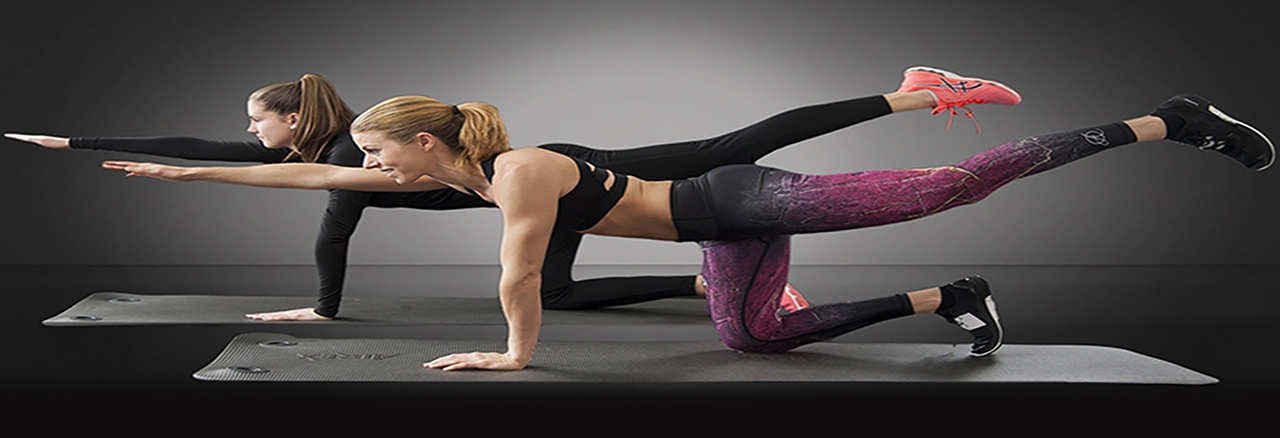
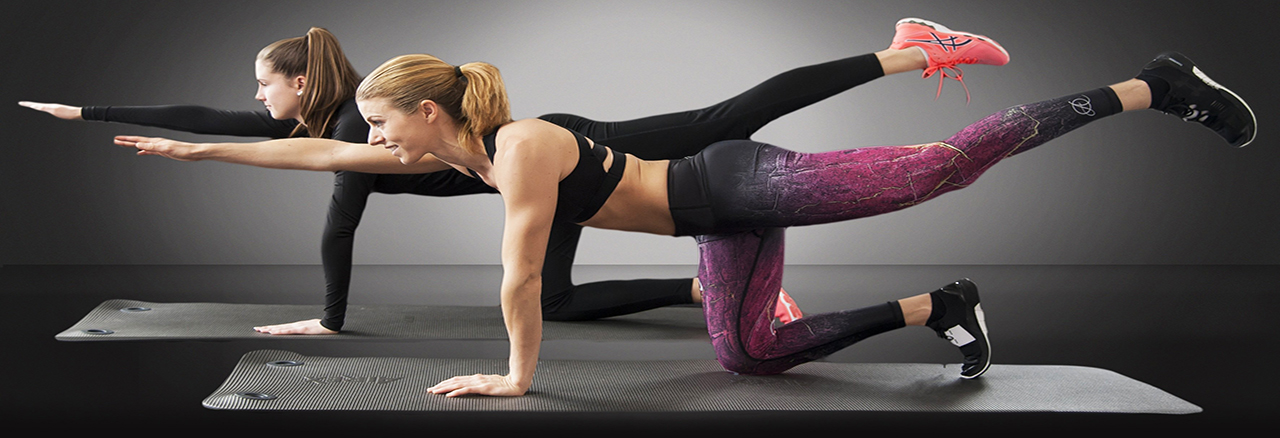
image

diff --git a/resources/views/planos.blade.php b/resources/views/planos.blade.php
@@ -27,7 +27,7 @@
       </nav>
 <br>
        <div class="container-fluid text-center">
-        <img src="/img/banners/banner6.jpg" class="img-fluid d-block w-100" alt="Banner">
+        <img src="/img/banners/banner7.jpg" class="img-fluid d-block w-100" alt="Banner">
       <p><h1>WORK YOUR BODY</h1></p>
     </div>
     <br>

diff --git a/resources/views/home.blade.php b/resources/views/home.blade.php
@@ -188,7 +188,7 @@
                     </div>
                   </div>
                 </div>
-            </header>
-    </body>
-    <br>
+                <br>
+             </body>
+     </header>
 @endsection
